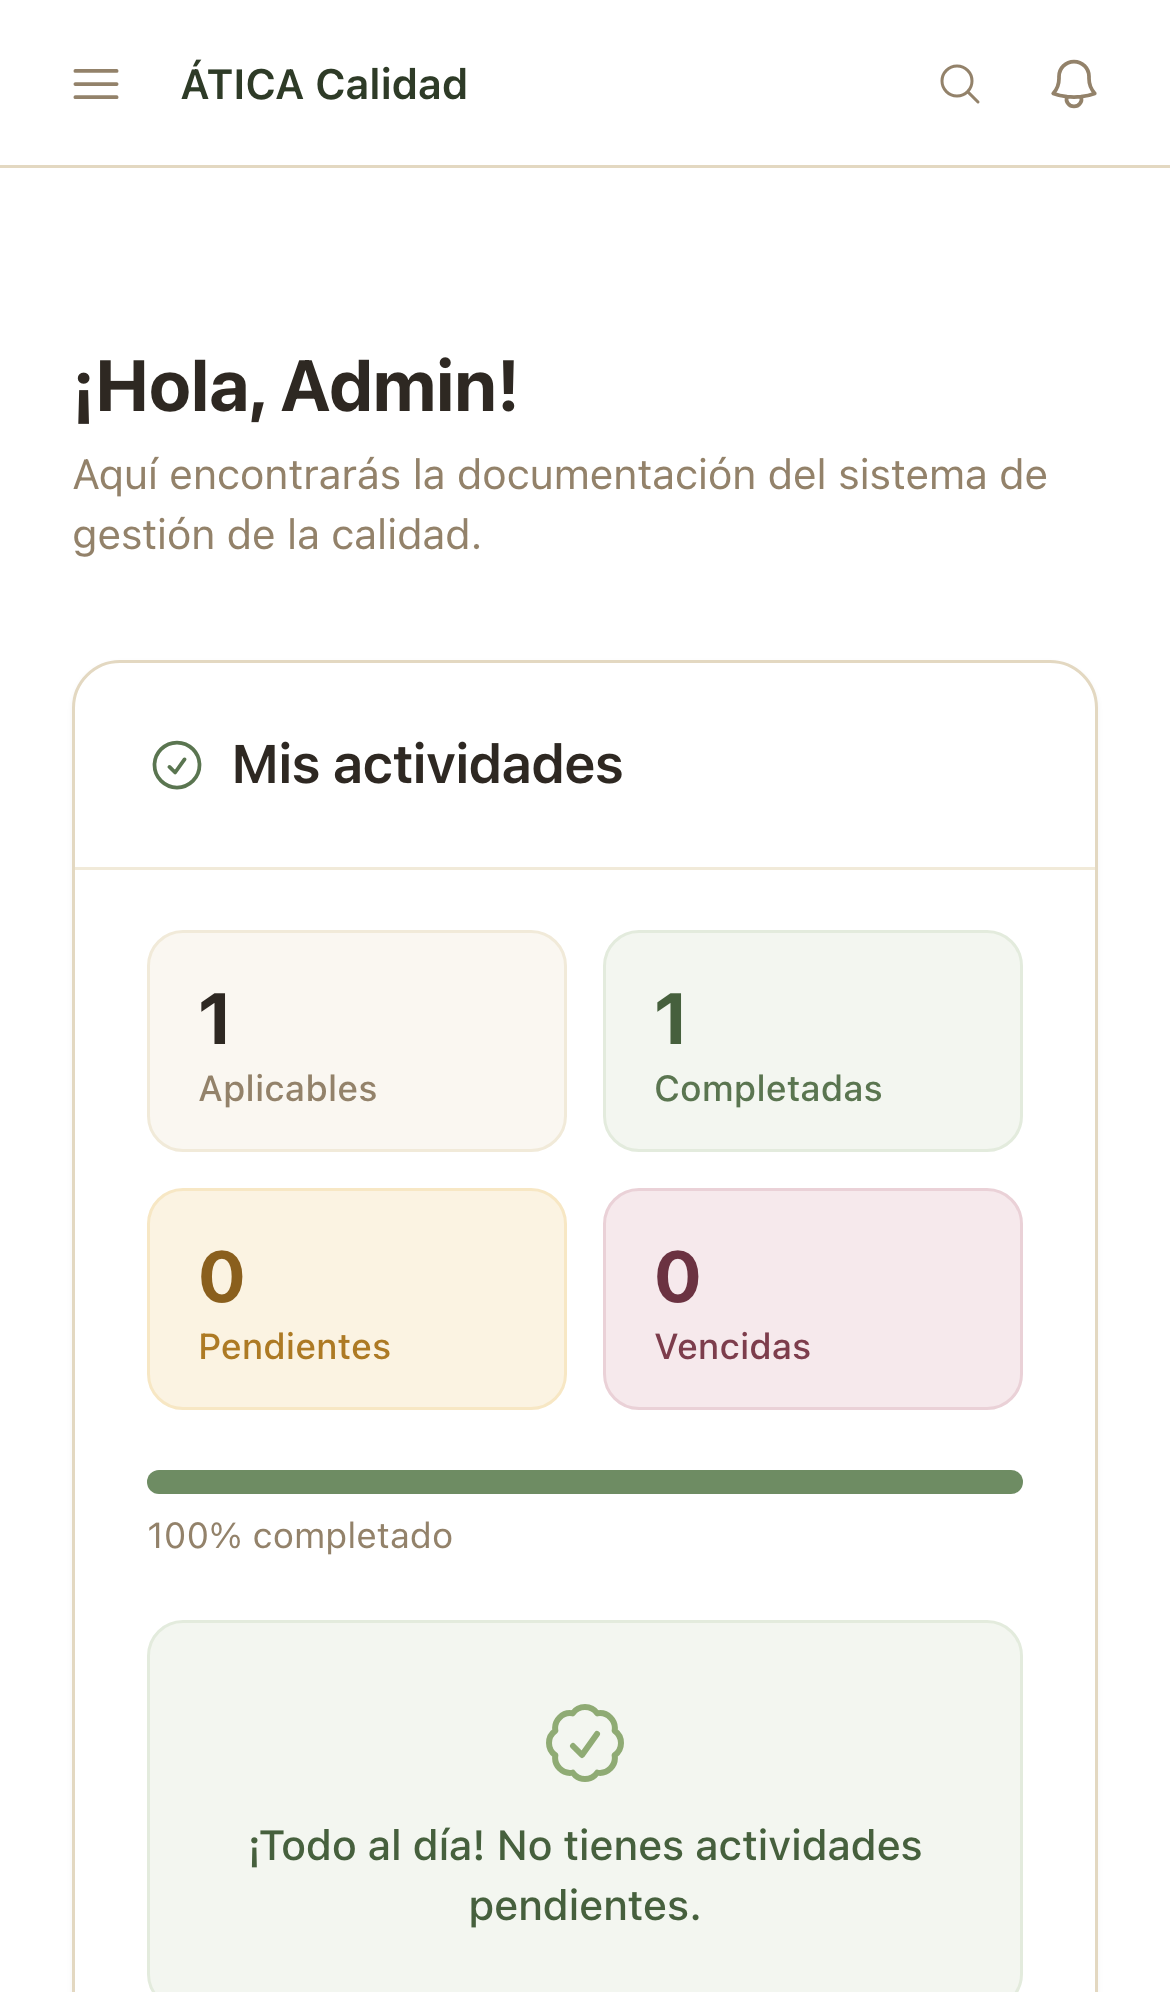
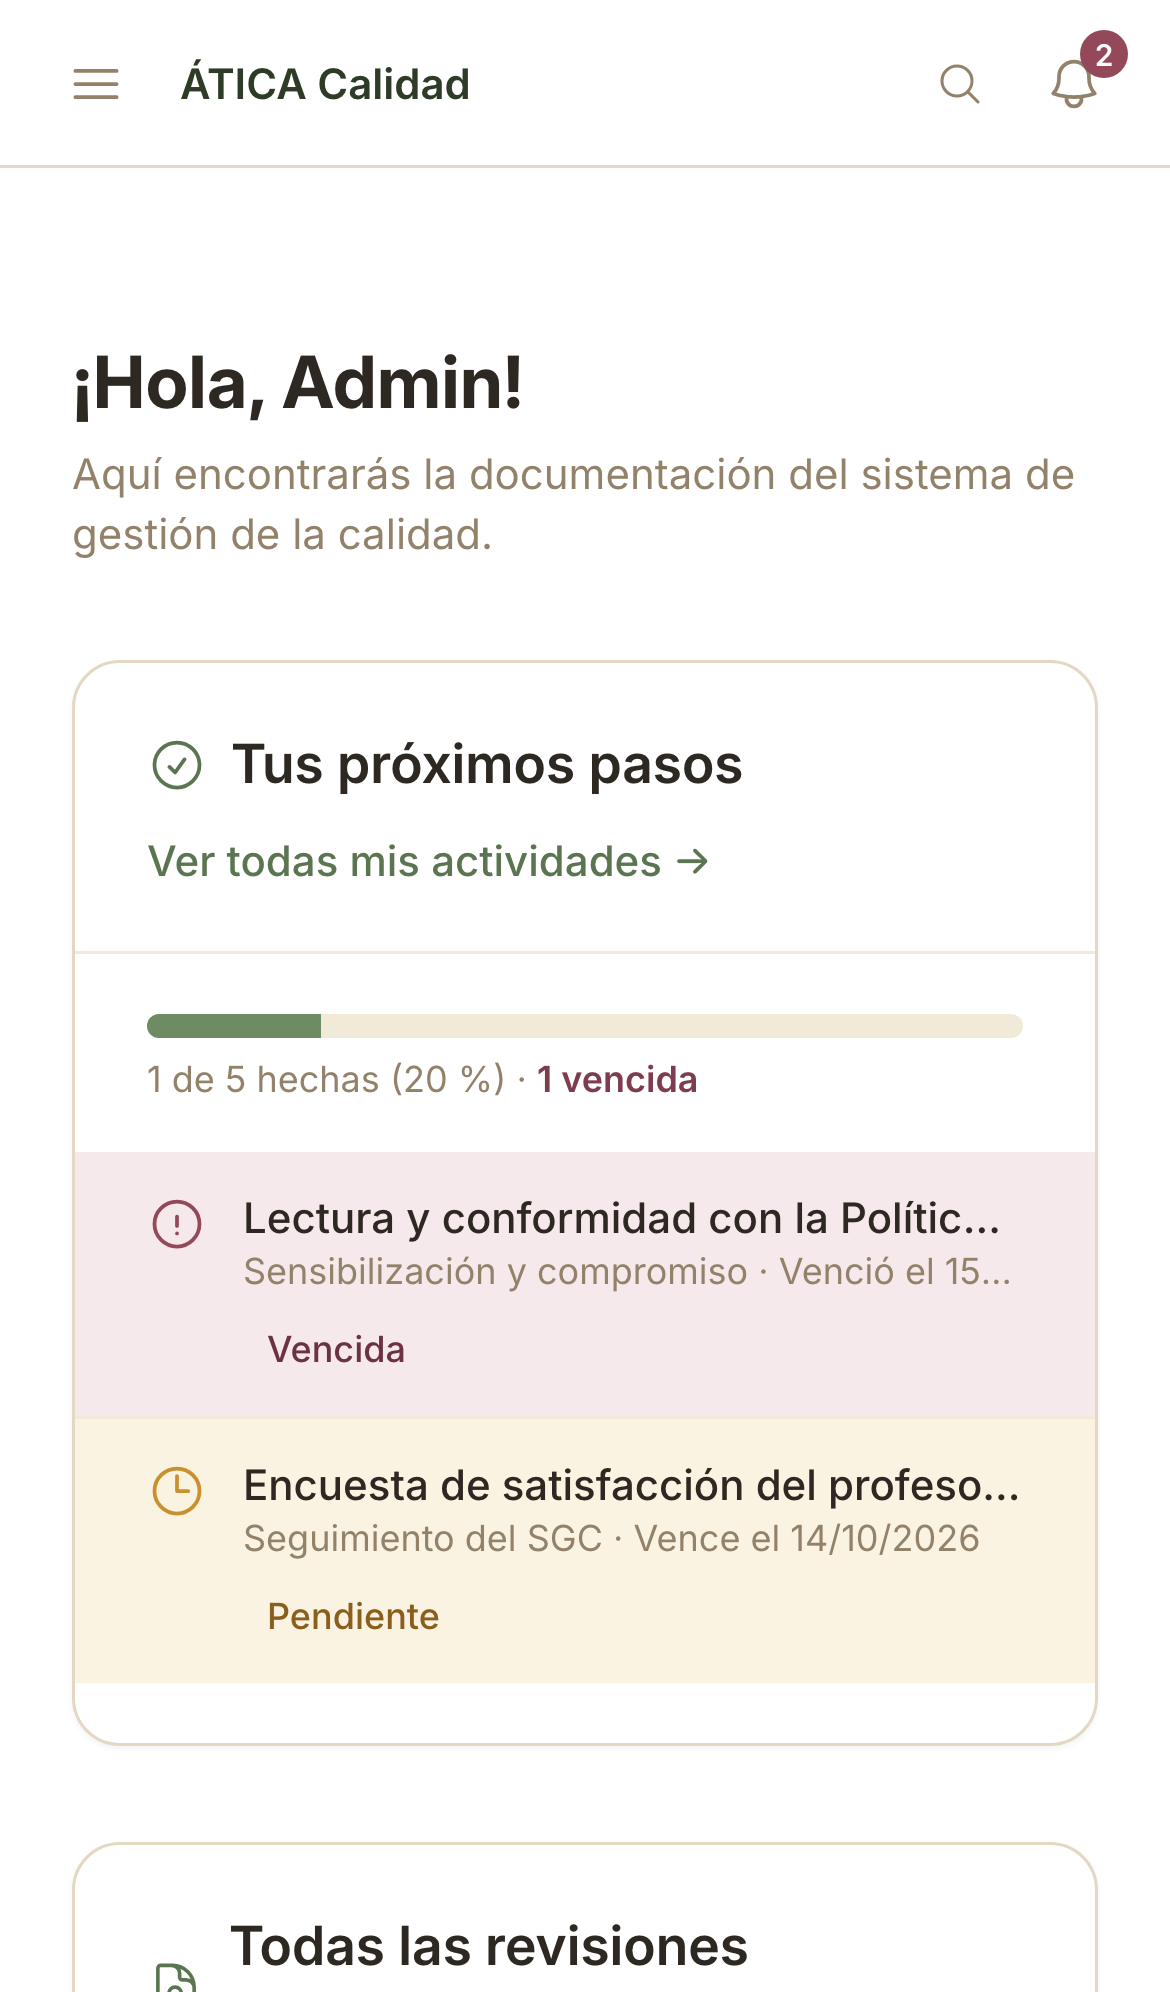
docs: capturas de la presentación y de las fichas al día
- Presentación: las dos capturas (árbol documental y «Mis actividades») eran
  de la v0.1.0. Ahora son copias de las del manual, recién rehechas.
- Fichas: capturas de móvil rehechas. La búsqueda rápida usa «program» en lugar
  de «admin», así que muestra resultados de varios tipos (carpetas,
  documentos, categorías y actividades), como dice la ficha. El texto de la
  ficha menciona ya las actividades y que buscar docentes es solo para la
  administración y el equipo directivo.
- READMEs del manual y de la presentación: de dónde sale cada captura y cómo
  se regeneran.

Claude-Session: https://claude.ai/code/session_01KHybPHgos2WmpT1hbwEeZS

diff --git a/docs/cheatsheets/busqueda-rapida.md b/docs/cheatsheets/busqueda-rapida.md
@@ -32,16 +32,18 @@ footer: 'v{{VERSION}} ({{PUB_DATE}}) · ÁTICA Calidad'
 <div class="step">
   <span class="num">3</span>
   <div class="text">
-    <p>Escribe al menos 2 letras del nombre o el usuario de un docente del curso activo.</p>
-    <img src="img/busqueda-rapida-3.png" alt="Resultados de búsqueda agrupados por tipo">
+    <p>Escribe al menos 2 letras. Los resultados salen agrupados por tipo: carpetas, documentos,
+    categorías de actividades, actividades…</p>
+    <img src="img/busqueda-rapida-3.png" alt="Resultados de buscar «program», agrupados por tipo">
   </div>
 </div>
 
 <div class="step">
   <span class="num">4</span>
   <div class="text">
-    <p>La misma búsqueda encuentra también secciones, carpetas y documentos del árbol documental
-    —incluido el perfil de subida y quién subió la última revisión— agrupados por tipo.</p>
+    <p>Busca a la vez en el árbol documental (secciones, carpetas y documentos, incluido el perfil de
+    subida y quién subió la última revisión), en las actividades y, para administración y equipo
+    directivo, entre los docentes del curso activo (por nombre o usuario).</p>
   </div>
 </div>
 

diff --git a/docs/manual/README.md b/docs/manual/README.md
@@ -91,6 +91,13 @@ node scripts/capture-gestion-shots.mjs
     opción Symfony ignora el `DATABASE_URL` exportado y usa el de `.env.local`: la base de datos
     de desarrollo real.
 
-El calendario guarda por defecto en `img/calendario/`; el manual usa `img/`, de ahí la segunda
-llamada con `SHOTS_OUT_DIR`. Para volver a capturar, vuelve a sembrar la base de datos (paso 1):
-los scripts dan por hecho los datos recién creados.
+El calendario guarda por defecto en `img/calendario/`; el manual usa `img/`, de ahí la llamada con
+`SHOTS_OUT_DIR`. Para volver a capturar, vuelve a sembrar la base de datos (paso 1): los scripts dan
+por hecho los datos recién creados.
+
+Con las capturas del manual se actualizan también las de otros documentos:
+
+- **Presentación** (`docs/slides/img/`): copia `img/arbol-carpeta-contenido.png` como
+  `arbol-documental.png` e `img/actividades-mias.png` como `actividades.png`.
+- **Fichas** (`docs/cheatsheets/img/`, capturas de móvil): `node scripts/capture-cheatsheet-shots.mjs`,
+  con la base recién sembrada (antes de `gestion`).

diff --git a/docs/slides/README.md b/docs/slides/README.md
@@ -7,7 +7,10 @@ la vez que se vaya añadiendo la gestión documental del sistema de calidad.
 ## Ficheros
 
 - `atica-calidad.md` — fuente de las diapositivas (Marp).
-- `img/` — capturas del entorno de pruebas incrustadas en la presentación (todavía sin contenido).
+- `img/` — capturas incrustadas en la presentación. Son copias de dos del manual, así que se
+  actualizan al [regenerar las del manual](../manual/README.md#regenerar-las-capturas):
+  `arbol-documental.png` es `docs/manual/img/arbol-carpeta-contenido.png` y `actividades.png` es
+  `docs/manual/img/actividades-mias.png`.
 
 ## Generar el PDF
 
